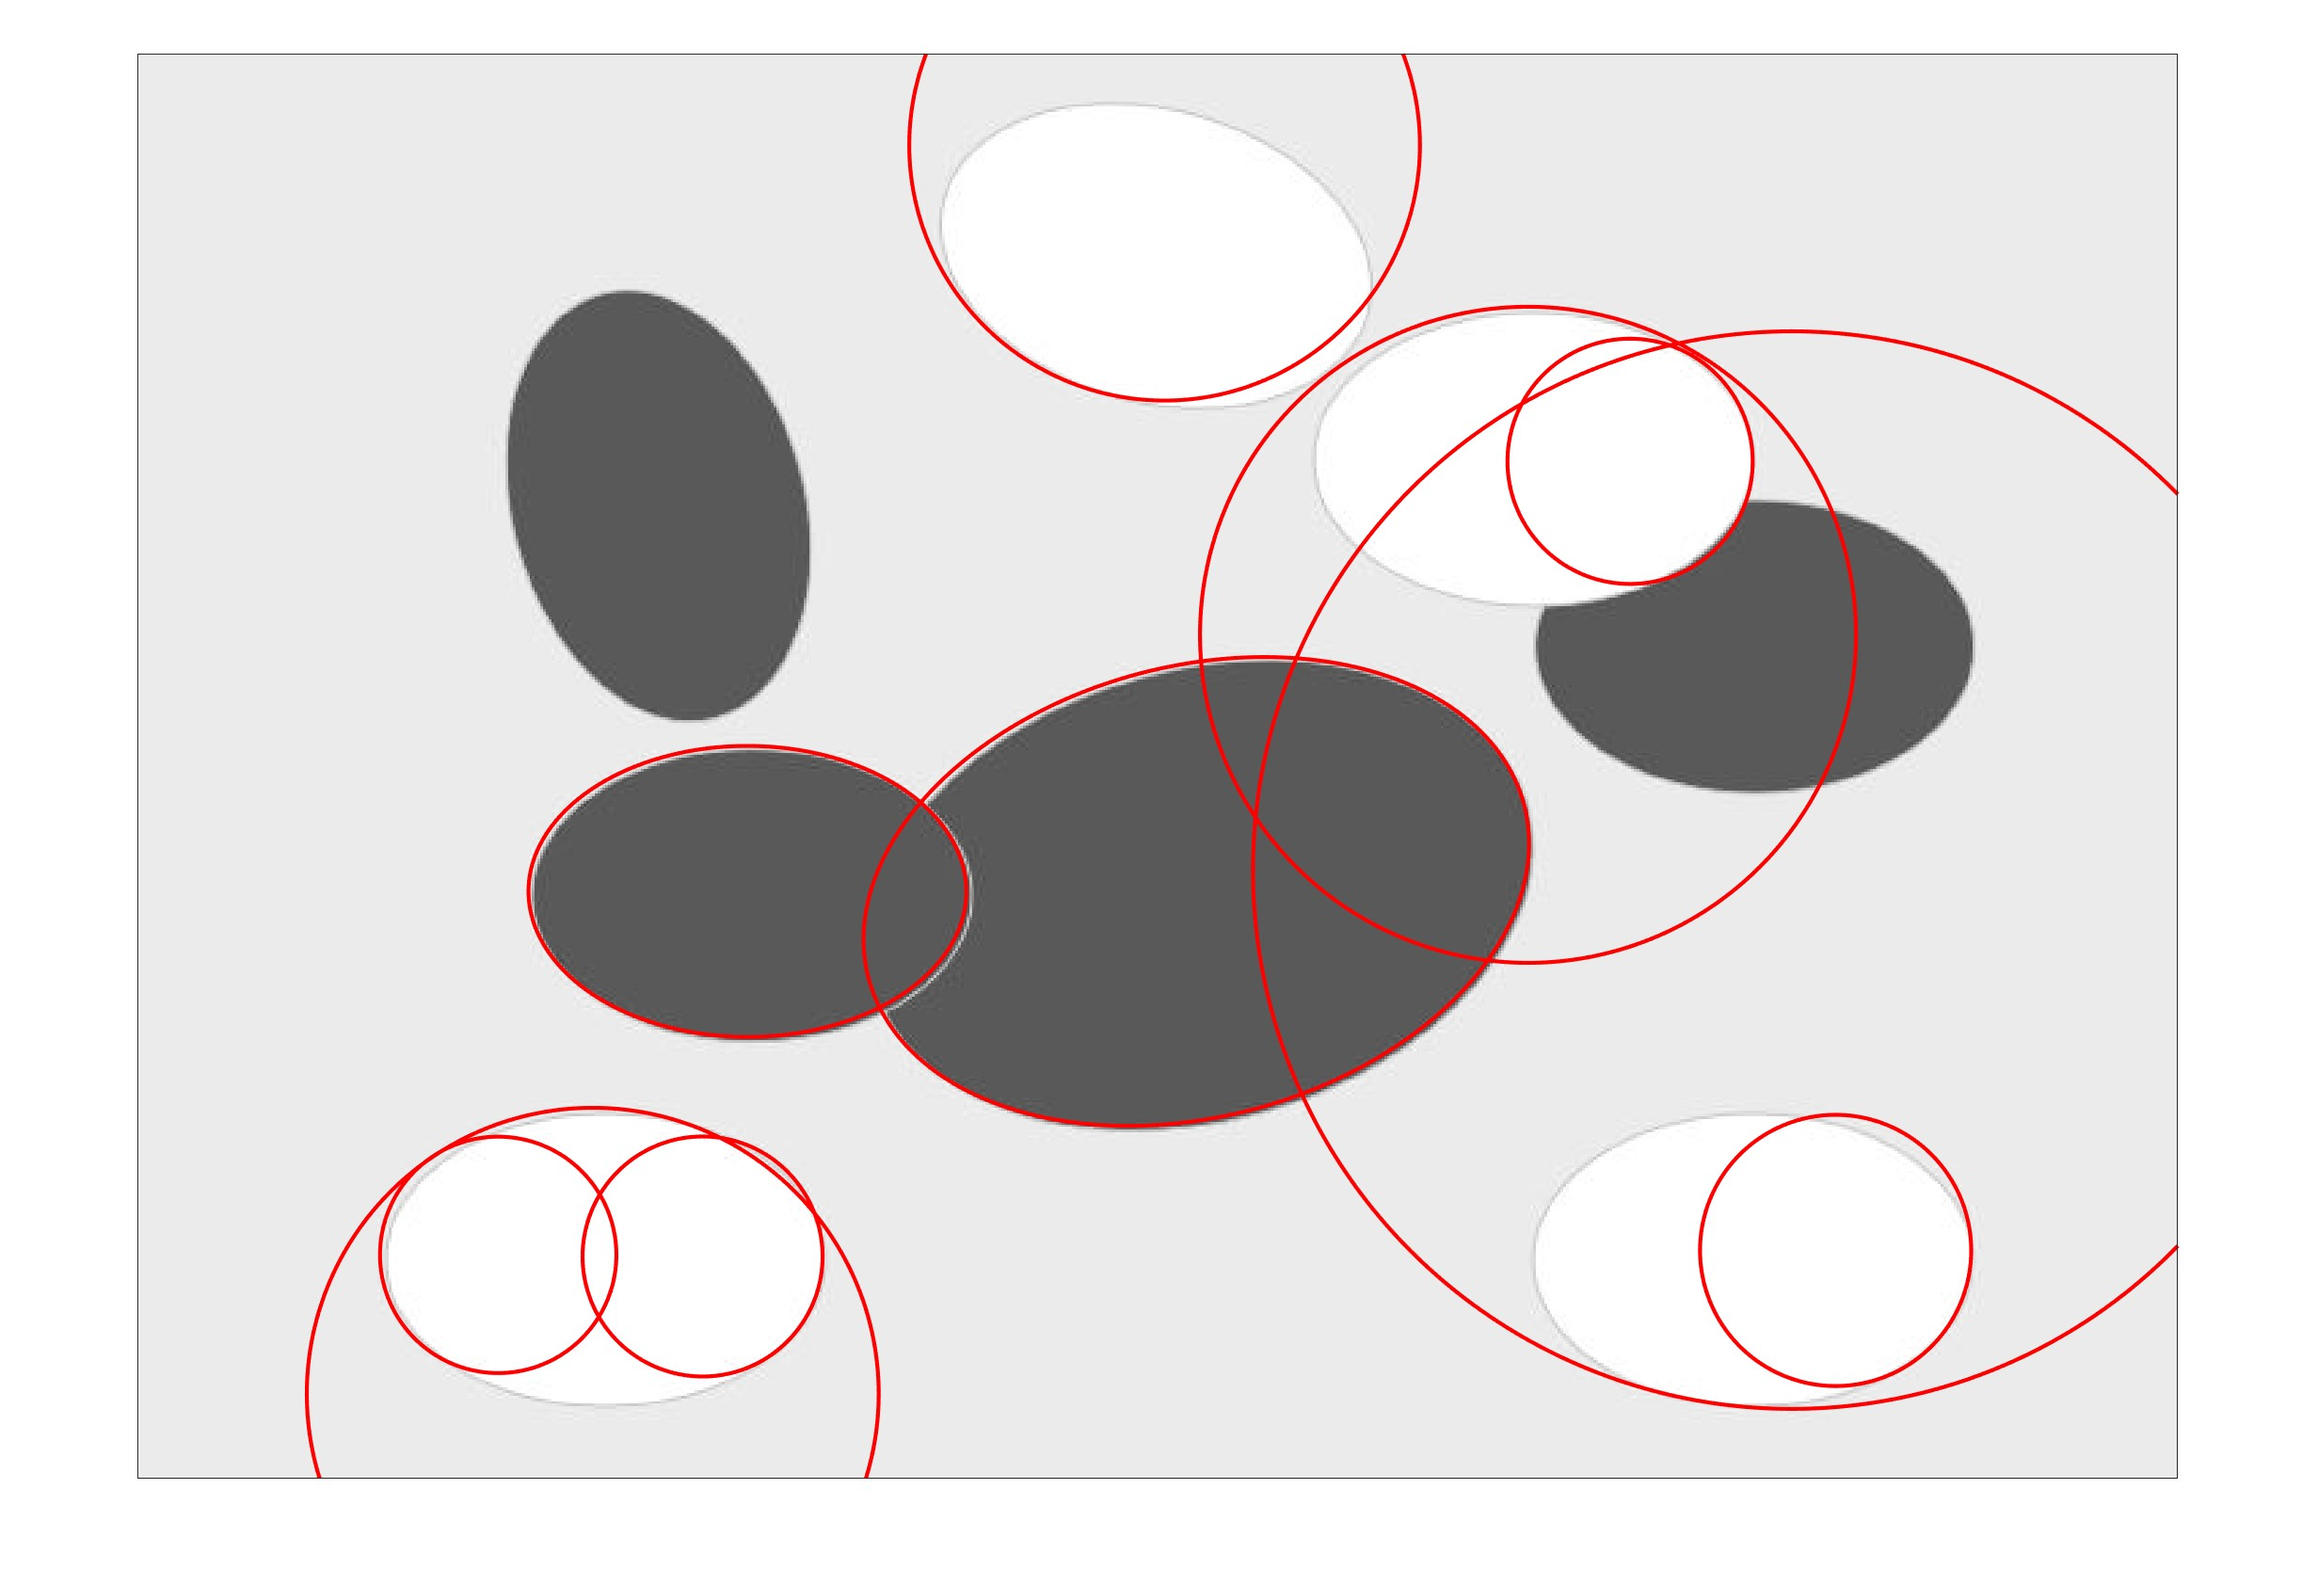
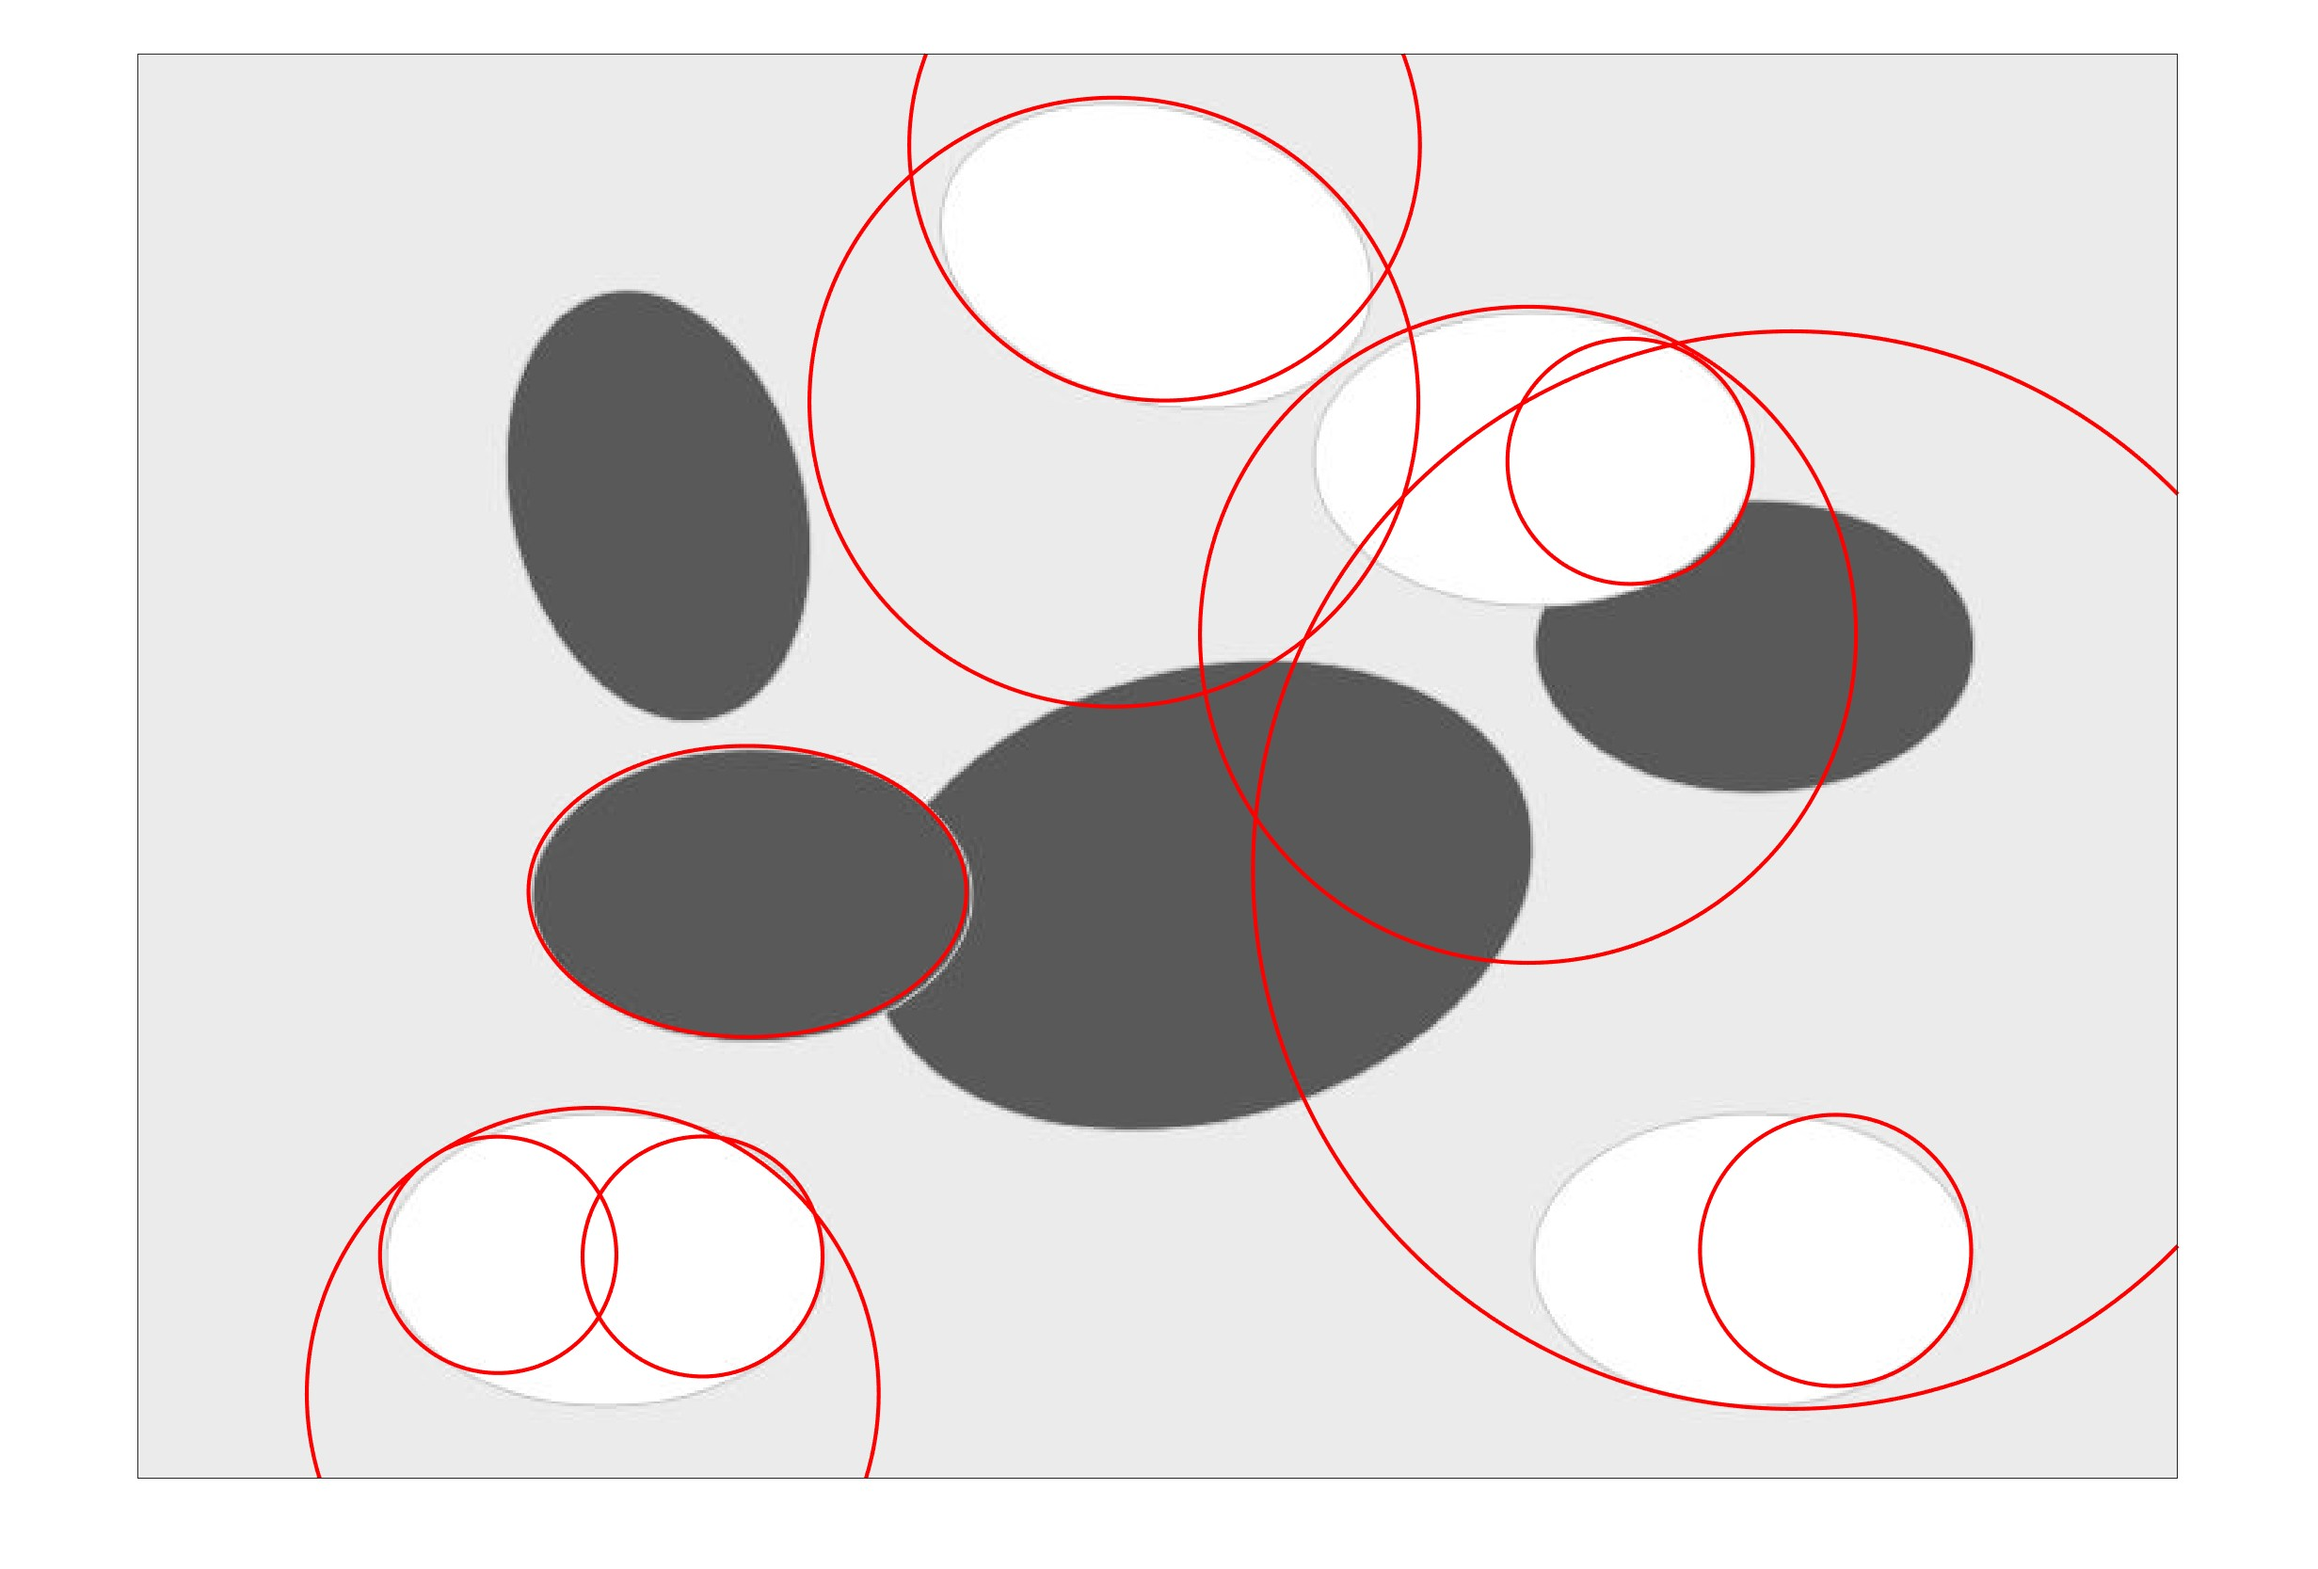
7.5

diff --git a/new.m b/new.m
@@ -1,52 +1,93 @@
-clc;
-% clear all;
-% load("/home/wu/codes/cocluster_matlab/out_ellipse_666.txt");
-load("/home/wu/codes/ELSDc/out_ellipse.txt");
-% tmp = out_ellipse(:,6:12);
-% output = [out_ellipse(:,6:10),abs(out_ellipse(:,12)-out_ellipse(:,11))];
-output = out_ellipse(:,6:10);
-% drawEllipses(output',"666.jpg",0)
-% ind = cocluster()
-out_num = size(output,1);
-cor = zeros(out_num);
-for i = 1 : out_num
-    for j = 1 : out_num
-        cor(i,j) = Correlation(output(i,:),output(j,:));
-    end
-end
-[u,s,~]=svd(cor);
-R = u*s^(1/2);
-sums = NaN(1,50);
-for j = 2:10 % kmeans 的 k
-    [ind,~,sumd] = kmeans(R,j);
-    [~,I]=sort(ind);
-    newcor = cor(I,I);
-    img=mat2gray(newcor);%将数值矩阵X转换为灰度图像
-    %     C(j)={M};
-    %     id(j)={ind};
-    sums(j) = sum(sumd);
-    disp(sums(j))
-    disp(j)
-    imwrite(img,"data/chess"+string(j)+'.jpg')
-    tmp = zeros(j,5);
-    cnt = zeros(j);
-%     % average: very wrong
+% @Author: WU Zihan
+% @Date:   2022-06-26 14:42:14
+% @Last Modified by:   WU Zihan
+% @Last Modified time: 2022-07-04 20:43:01
+%% loading
+% clc;
+% % clear all;
+% % load("/home/wu/codes/cocluster_matlab/out_ellipse_666.txt");
+% load("/home/wu/codes/ELSDc/out_ellipse.txt");
+% % tmp = out_ellipse(:,6:12);
+% % output = [out_ellipse(:,6:10),abs(out_ellipse(:,12)-out_ellipse(:,11))];
+% output = out_ellipse(:,6:10);
+% % drawEllipses(output',"666.jpg",0)
+% % ind = cocluster()
+% out_num = size(output,1);
+% cor = zeros(out_num);
+% for i = 1 : out_num
+%     for j = 1 : out_num
+%         cor(i,j) = Correlation(output(i,:),output(j,:));
+%     end
+% end
+
+%% R decomposition 
+% [u,s,~]=svd(cor);
+% R = u*s^(1/2);
+% sums = NaN(1,50);
+% for j = 2:10 % kmeans 的 k
+%     [ind,~,sumd] = kmeans(R,j);
+%     [~,I]=sort(ind);
+%     newcor = cor(I,I);
+%     img=mat2gray(newcor);%将数值矩阵X转换为灰度图像
+%     %     C(j)={M};
+%     %     id(j)={ind};
+%     sums(j) = sum(sumd);
+%     disp(sums(j))
+%     disp(j)
+%     imwrite(img,"data/chess"+string(j)+'.jpg')
+%     tmp = zeros(j,5);
+%     cnt = zeros(j);
+% %     % average: very wrong
+% %     for i = 1:size(output,1)
+% %         tmp(ind(i),:) = tmp(ind(i),:)+output(i,:);
+% %         cnt(ind(i)) = cnt(ind(i)) + 1;
+% %     end
+% %     for i = 1:j
+% %         tmp(i,:) = tmp(i,:)/cnt(i);
+% %     end
 %     for i = 1:size(output,1)
-%         tmp(ind(i),:) = tmp(ind(i),:)+output(i,:);
-%         cnt(ind(i)) = cnt(ind(i)) + 1;
+%         tmp(ind(i),:) = output(i,:);
 %     end
-%     for i = 1:j
-%         tmp(i,:) = tmp(i,:)/cnt(i);
+%     drawEllipses(tmp',"666.jpg",j)
+% end
+% plot(sums)
+
+%% Yan's own word
+
+% [u,s,~]=svd(cor);
+% R = (u*s);
+% % R=R(1:3,:);
+% sums = NaN(1,50);
+% for j = 2:10 % kmeans 的 k
+%     [ind,~,sumd] = kmeans(R,j);
+%     [~,I]=sort(ind);
+%     newcor = cor(I,I);
+%     img=mat2gray(newcor);%将数值矩阵X转换为灰度图像
+%     %     C(j)={M};
+%     %     id(j)={ind};
+%     sums(j) = sum(sumd);
+% %     disp(sums(j))
+% %     disp(j)
+% %     imwrite(img,"data/chess"+string(j)+'.jpg')
+%     tmp = zeros(j,5);
+% %     cnt = zeros(j);
+% %     % average: very wrong
+% %     for i = 1:size(output,1)
+% %         tmp(ind(i),:) = tmp(ind(i),:)+output(i,:);
+% %         cnt(ind(i)) = cnt(ind(i)) + 1;
+% %     end
+% %     for i = 1:j
+% %         tmp(i,:) = tmp(i,:)/cnt(i);
+% %     end
+%     for i = 1:size(output,1)
+%         tmp(ind(i),:) = output(i,:);
 %     end
-    for i = 1:size(output,1)
-        tmp(ind(i),:) = output(i,:);
-    end
-    drawEllipses(tmp',"666.jpg",j)
-end
-plot(sums)
+%     drawEllipses(tmp',"666.jpg",j)
+% end
+% plot(sums)
 
 %%
-j = 4;
+j = 7;
 [ind,~,sumd] = kmeans(R,j);
 [~,I]=sort(ind);
 newcor = cor(I,I);

diff --git a/testing.m b/testing.m
@@ -1,41 +1,78 @@
-n = 19;
-a = out_ellipse(n, 8);
-b = out_ellipse(n, 9);
-x0 = out_ellipse(n, 6);
-y0 = out_ellipse(n, 7);
-theta = out_ellipse(n, 10);
-phi1 = out_ellipse(n, 11);
-phi2 = out_ellipse(n, 12);
-x1 = out_ellipse(n, 2);
-y1 = out_ellipse(n, 3);
-x2 = out_ellipse(n, 4);
-y2 = out_ellipse(n, 5);
+% n = 27;
+% a = out_ellipse(n, 8);
+% b = out_ellipse(n, 9);
+% x0 = out_ellipse(n, 6);
+% y0 = out_ellipse(n, 7);
+% theta = out_ellipse(n, 10);
+% phi1 = out_ellipse(n, 11);
+% phi2 = out_ellipse(n, 12);
+% x1 = out_ellipse(n, 2);
+% y1 = out_ellipse(n, 3);
+% x2 = out_ellipse(n, 4);
+% y2 = out_ellipse(n, 5);
+% % 
+% % rosin_dist([x1,y1],[x0,y0,a,b,theta])
+% astart = atan2((y1-y0),(x1-x0));
+% aend = atan2((y2-y0),(x2-x0));
+% 
+% if astart < 0
+%     astart = astart + 2 * pi;
+% end
+% if aend < 0
+%     aend = aend + 2 * pi;
+% end
+% 
+% if astart > aend 
+%     tang = aend + 2 * pi;
+% else
+%     tang = aend;
+% end
+% astart
+% aend
+% astart-phi1
+% aend-phi2
+% 
+% % x0 + a * cos(theta) * cos (phi1) + b * sin(theta) * sin(phi1)
+% 
+% set = arcpoints(out_ellipse(n,:));%arc points
+% 
+% figure;
+% scatter(set(:,1),set(:,2));
+% axis equal;
 
-rosin_dist([x1,y1],[x0,y0,a,b,theta])
-% atan2((y1-y0),(x1-x0)) + 2 * pi
-% atan2((y2-y0),(x2-x0)) + 2 * pi
-% x0 + a * cos(theta) * cos (phi1) + b * sin(theta) * sin(phi1)
+% for i = 1:size(out_ellipse,1)
+%     point{i} = arcpoints(out_ellipse(i,:));
+% end
+% 
+% for i = 1:size(out_ellipse,1)
+%     for phi = 0:0.5:360
+%         phi_ = phi /180 * pi;
+%         x = x0 + a * cos(theta) * cos (phi_) - b * sin(theta) * sin(phi_);
+%         y = y0 + a * cos(theta) * sin (phi_) + b * sin(theta) * cos(phi_);
+%         set = [set;[round(x),round(y)]];
+%     end
+%     ellipse_point{i} = ellipsePoint(out_ellipse(i,6:10));
+% end
+% 
+% 
+% %
+% DM = distanceMatrix(out_ellipse(:,:),point,ellipse_point,arc_len)
+% 
+% group=[1,3,7,8,19,23];
+% dm = DM(group,group)
+% %%
+% DM
 
-set = arcpoints(out_ellipse(9,:));%arc points
-for i = 1:size(out_ellipse,1)
-    point{i} = arcpoints(out_ellipse(i,:));
+for n=1:27
+    x0 = out_ellipse(n, 6);
+    y0 = out_ellipse(n, 7);
+    x1 = out_ellipse(n, 2);
+    y1 = out_ellipse(n, 3);
+    x2 = out_ellipse(n, 4);
+    y2 = out_ellipse(n, 5);
+    out_ellipse(n,14) = atan2((y1-y0),(x1-x0));
+    out_ellipse(n,15) = atan2((y2-y0),(x2-x0));
 end
 
-for i = 1:size(out_ellipse,1)
-    for phi = 0:0.5:360
-        phi_ = phi /180 * pi;
-        x = x0 + a * cos(theta) * cos (phi_) - b * sin(theta) * sin(phi_);
-        y = y0 + a * cos(theta) * sin (phi_) + b * sin(theta) * cos(phi_);
-        set = [set;[round(x),round(y)]];
-    end
-    ellipse_point{i} = ellipsePoint(out_ellipse(i,6:10));
-end
-
-
-%
-DM = distanceMatrix(out_ellipse(:,:),point,ellipse_point,arc_len)
-
-group=[1,3,7,8,19,23];
-dm = DM(group,group)
-%%
-DM
+diff = out_ellipse(:,14:15)-out_ellipse(:,11:12);
+    

diff --git a/init.m b/init.m
@@ -1,0 +1,28 @@
+%% loading
+clc;
+load("/home/wu/codes/ELSDc/out_ellipse.txt");
+output = out_ellipse(:,6:10);
+out_num = size(output,1);
+cor = zeros(out_num);
+for i = 1 : out_num
+    for j = 1 : out_num
+        cor(i,j) = Correlation(output(i,:),output(j,:));
+    end
+end
+
+%% Yan's own word
+
+[u,s,~]=svd(cor);
+R = (u*s);
+sums = NaN(1,50);
+for j = 2:10 % kmeans 的 k
+    [ind,~,sumd] = kmeans(R,j);
+    [~,I]=sort(ind);
+    newcor = cor(I,I);
+    img=mat2gray(newcor);%将数值矩阵X转换为灰度图像
+    sums(j) = sum(sumd);
+    tmp = zeros(j,5);
+    for i = 1:size(output,1)
+        tmp(ind(i),:) = output(i,:);
+    end
+end

diff --git a/old.m b/old.m
@@ -4,7 +4,7 @@ imshow(sourceImg)
 [rows, cols] = size(gray)
 disp('source_success')
 
-arcpoints = load ('ske\im9933arcpoints.txt','-ascii');
+arcpoints = load ('im9933arcpoints.txt','-ascii');
 [arcpointsizex,~] = size(arcpoints);
 arc = 0;
 new_label = 0;
@@ -63,7 +63,7 @@ output = sol;
 cor = zeros(out_num);
 for i = 1 : out_num
     for j = 1 : out_num
-        cor(i,j) = Distance(output(:,i),output(:,j));
+        cor(i,j) = Correlation(output(:,i),output(:,j));
     end
 end
 [u,~,~]=svd(cor);
